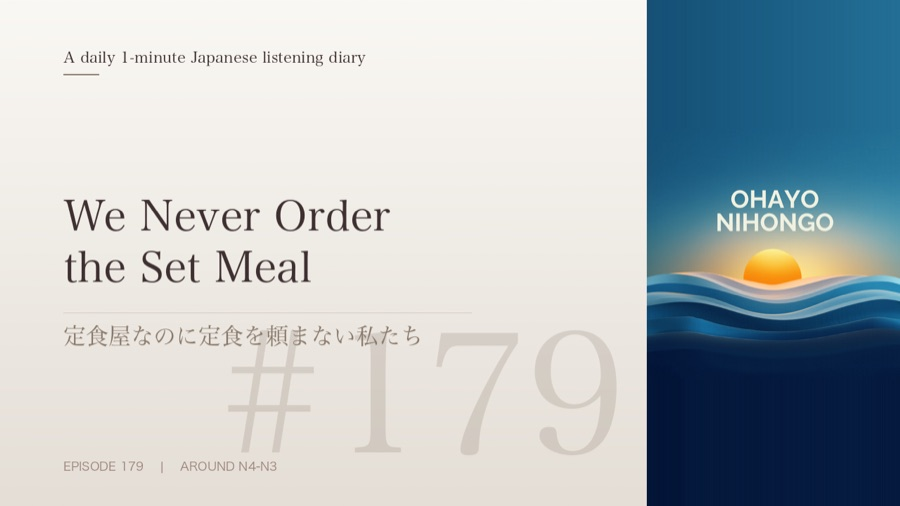
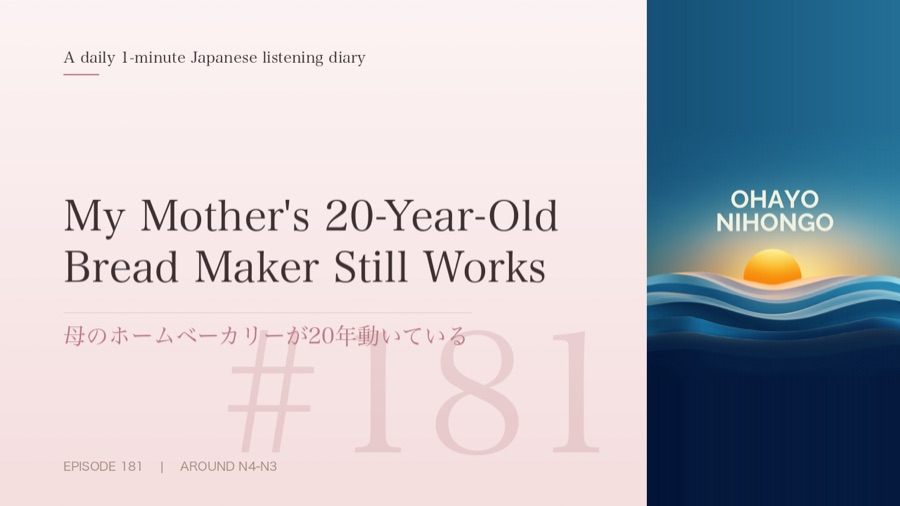
Update today's diary excerpt to Episode 181 (bread maker)

diff --git a/index.html b/index.html
@@ -199,10 +199,10 @@
 
   <div class="today">
     <!-- LP_EXCERPT_START -->
-    <div class="lbl">From the Diary #179 — きょうの いっぷん</div>
-    <div class="kanji">今の家に引っ越してくる前、10年ぐらい前に住んでいた家の近くに、友達がやっている定食屋さんがあります。</div>
-    <div class="hira">いまのいえにひっこしてくるまえ、じゅうねんぐらいまえにすんでいたいえのちかくに、ともだちがやっているていしょくやさんがあります。</div>
-    <div class="en">I visited my friend's famous teishoku restaurant after a long time, but we always order side dishes instead of set meals to go with drinks.</div>
+    <div class="lbl">From the Diary #181 — きょうの いっぷん</div>
+    <div class="kanji">私は毎週末、ホームベーカリーで食パンを焼いています。</div>
+    <div class="hira">わたしはまいしゅうまつ、ほーむべーかりーでしょくぱんをやいています。</div>
+    <div class="en">I use my late mother's bread maker every weekend to bake sandwich bread for my work lunches, and even though newer models exist, I plan to keep using it until it stops working.</div>
     <!-- LP_EXCERPT_END -->
     <div class="listen-label">Listen to today's 1-minute diary</div>
     <div class="listenBtns">
@@ -211,9 +211,9 @@
     </div>
     <!-- LP_EPTHUMB_START -->
     <a class="ep-thumb" href="https://www.youtube.com/channel/UCkeY8BNsy60KhnYiJ5jteFA" target="_blank" rel="noopener">
-      <img src="img/ep-sample.jpg" alt="OHAYO NIHONGO Episode 179 — We Never Order the Set Meal" loading="lazy">
+      <img src="img/ep-sample.jpg" alt="OHAYO NIHONGO Episode 181 — My Mother's 20-Year-Old Bread Maker Still Works" loading="lazy">
     </a>
-    <p class="ep-cap">Episode 179 — a new diary every morning ☀</p>
+    <p class="ep-cap">Episode 181 — a new diary every morning ☀</p>
     <!-- LP_EPTHUMB_END -->
     <a class="today-link" href="/diary/">Read today's diary →</a>
   </div>
